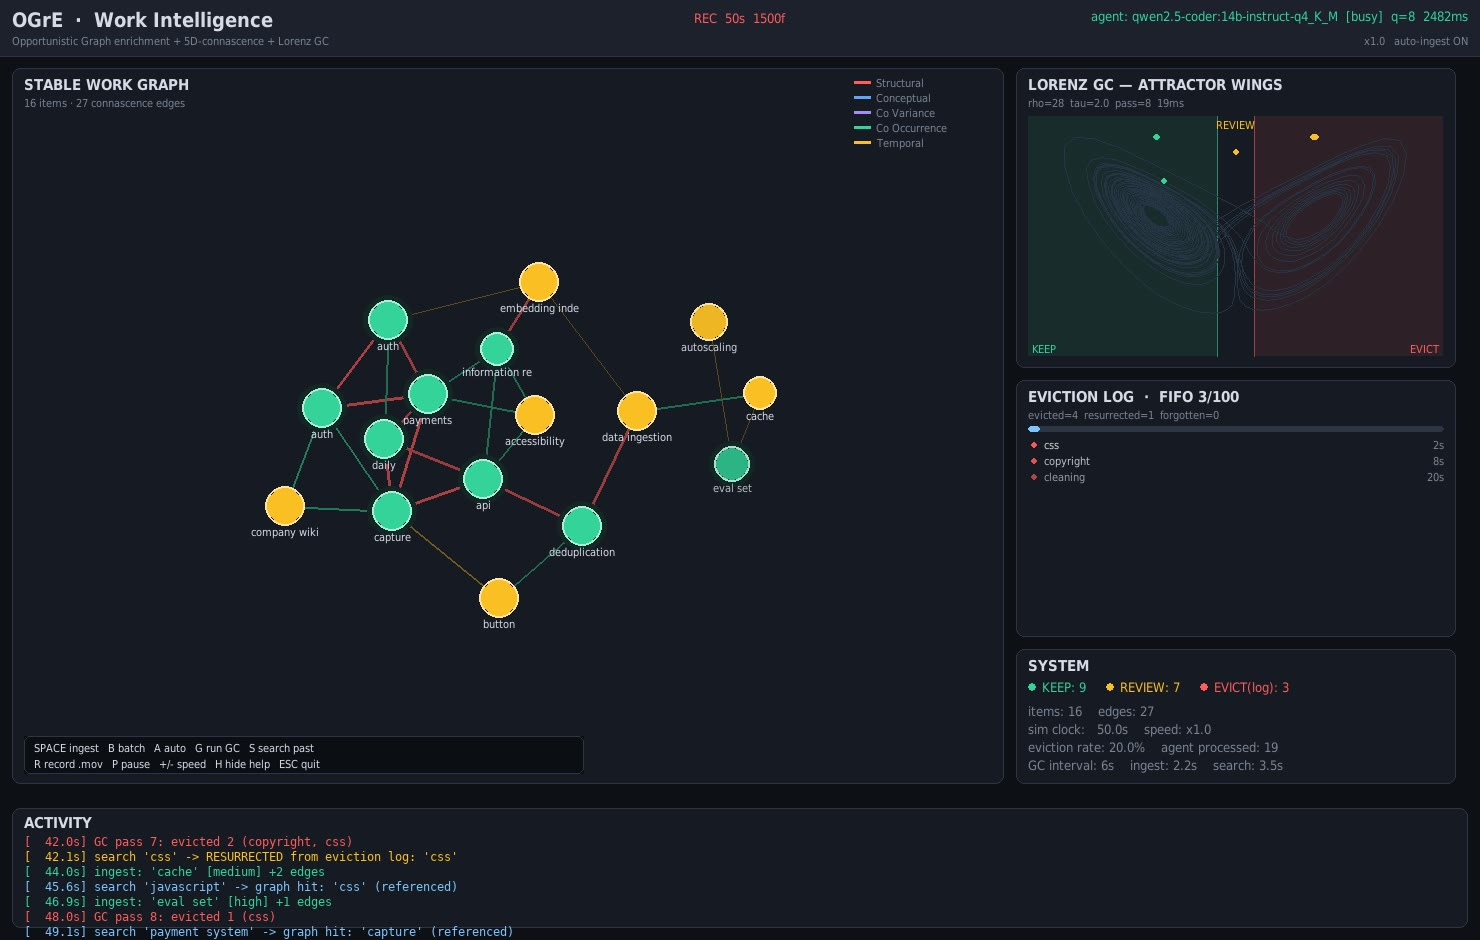
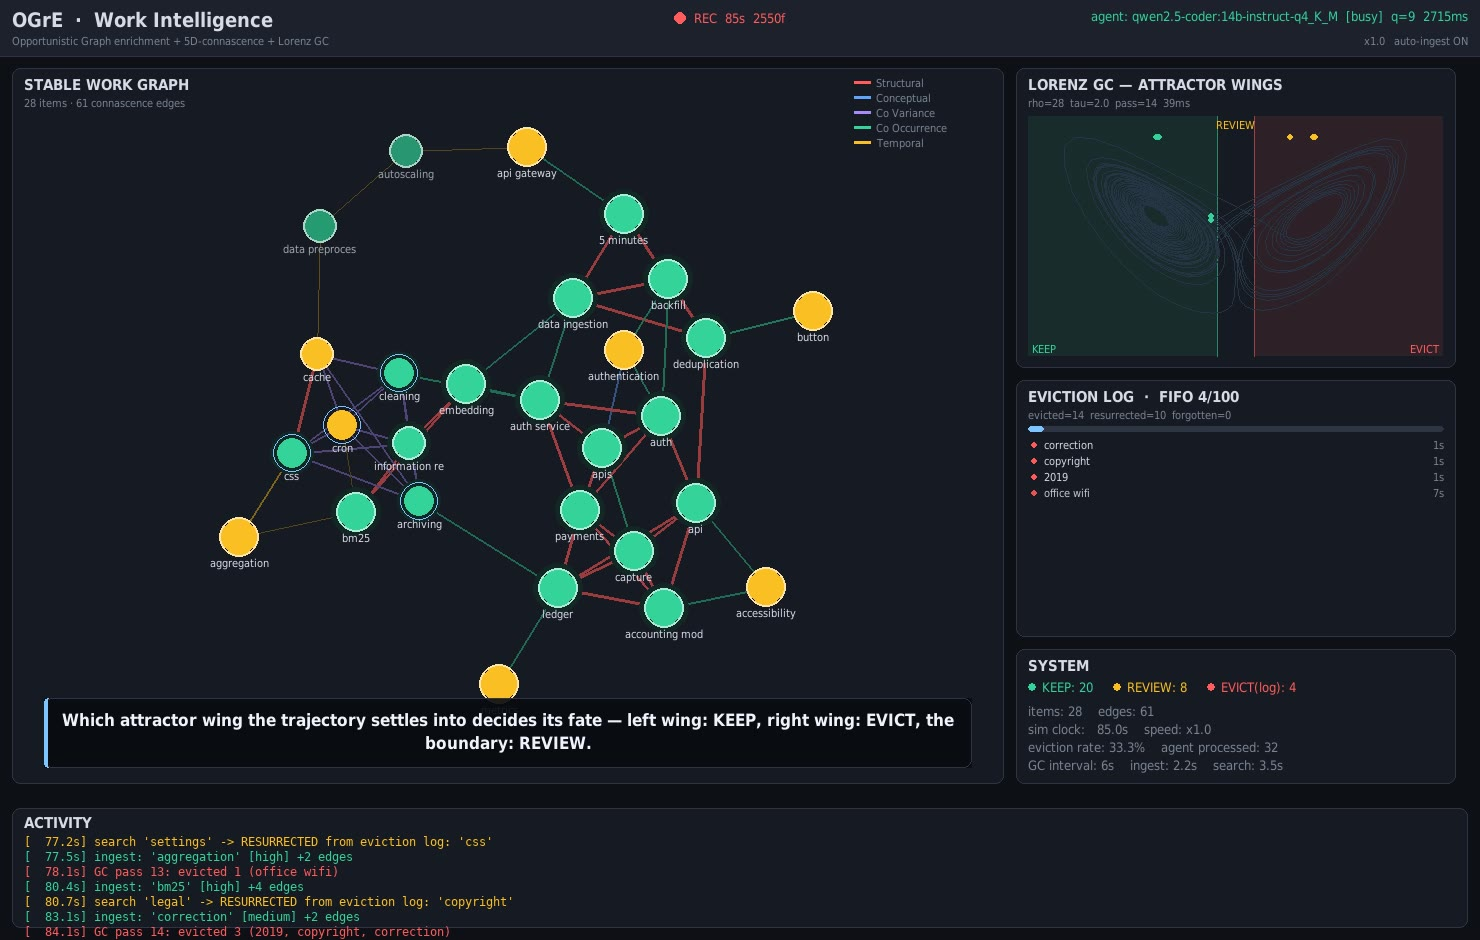
Update OGrE demo to narrated ~2.5min capture
Replaces the 60s clip with a 146s narrated capture (on-screen subtitles
explaining each phase), re-encoded for web (CRF 26, faststart, ~7MB).

diff --git a/index.html b/index.html
@@ -298,7 +298,7 @@
           <source src="media/ogre-demo.mov" type="video/quicktime" />
           Your browser doesn't support embedded video — <a href="media/ogre-demo.mp4">download the clip</a>.
         </video>
-        <span class="demo-cap">Live capture: the local 14B agent ingesting work items, OGrE weaving 5D-connascence edges, and the Lorenz GC evicting → resurrecting from the FIFO log.</span>
+        <span class="demo-cap">Narrated live capture (~2.5&nbsp;min): the local 14B agent ingesting work items, OGrE weaving 5D-connascence edges, and the Lorenz GC evicting → forgetting → resurrecting from the FIFO log. On-screen subtitles walk through each phase.</span>
         <p>Work items are ingested by a <strong>local Ollama agent</strong> (qwen2.5-coder 14B, GPU-tiered to fit 12&nbsp;GB VRAM) that enriches each into concepts and importance. <em>Opportunistic Graph enrichment</em> (OGrE) weaves them together with <strong>5D-connascence edges</strong> — structural, conceptual, temporal, co-occurrence, and co-variance. Vitality decays over time but <strong>propagates along edges</strong>, so densely re-referenced clusters reinforce each other into stable attractors.</p>
         <p>A <strong>Lorenz-attractor garbage collector</strong> (built on my <span class="mono">provenance-engine</span> package) maps every node into the chaotic system and classifies it by which wing its trajectory settles into — <strong>KEEP / REVIEW / EVICT</strong>. Evictions fall into a 100-item <strong>FIFO log</strong>; an agent searching the past walks the live graph first, then the log, and <strong>resurrects</strong> anything still referenced. The whole lifecycle renders live and records straight to video.</p>
         <div class="tags">